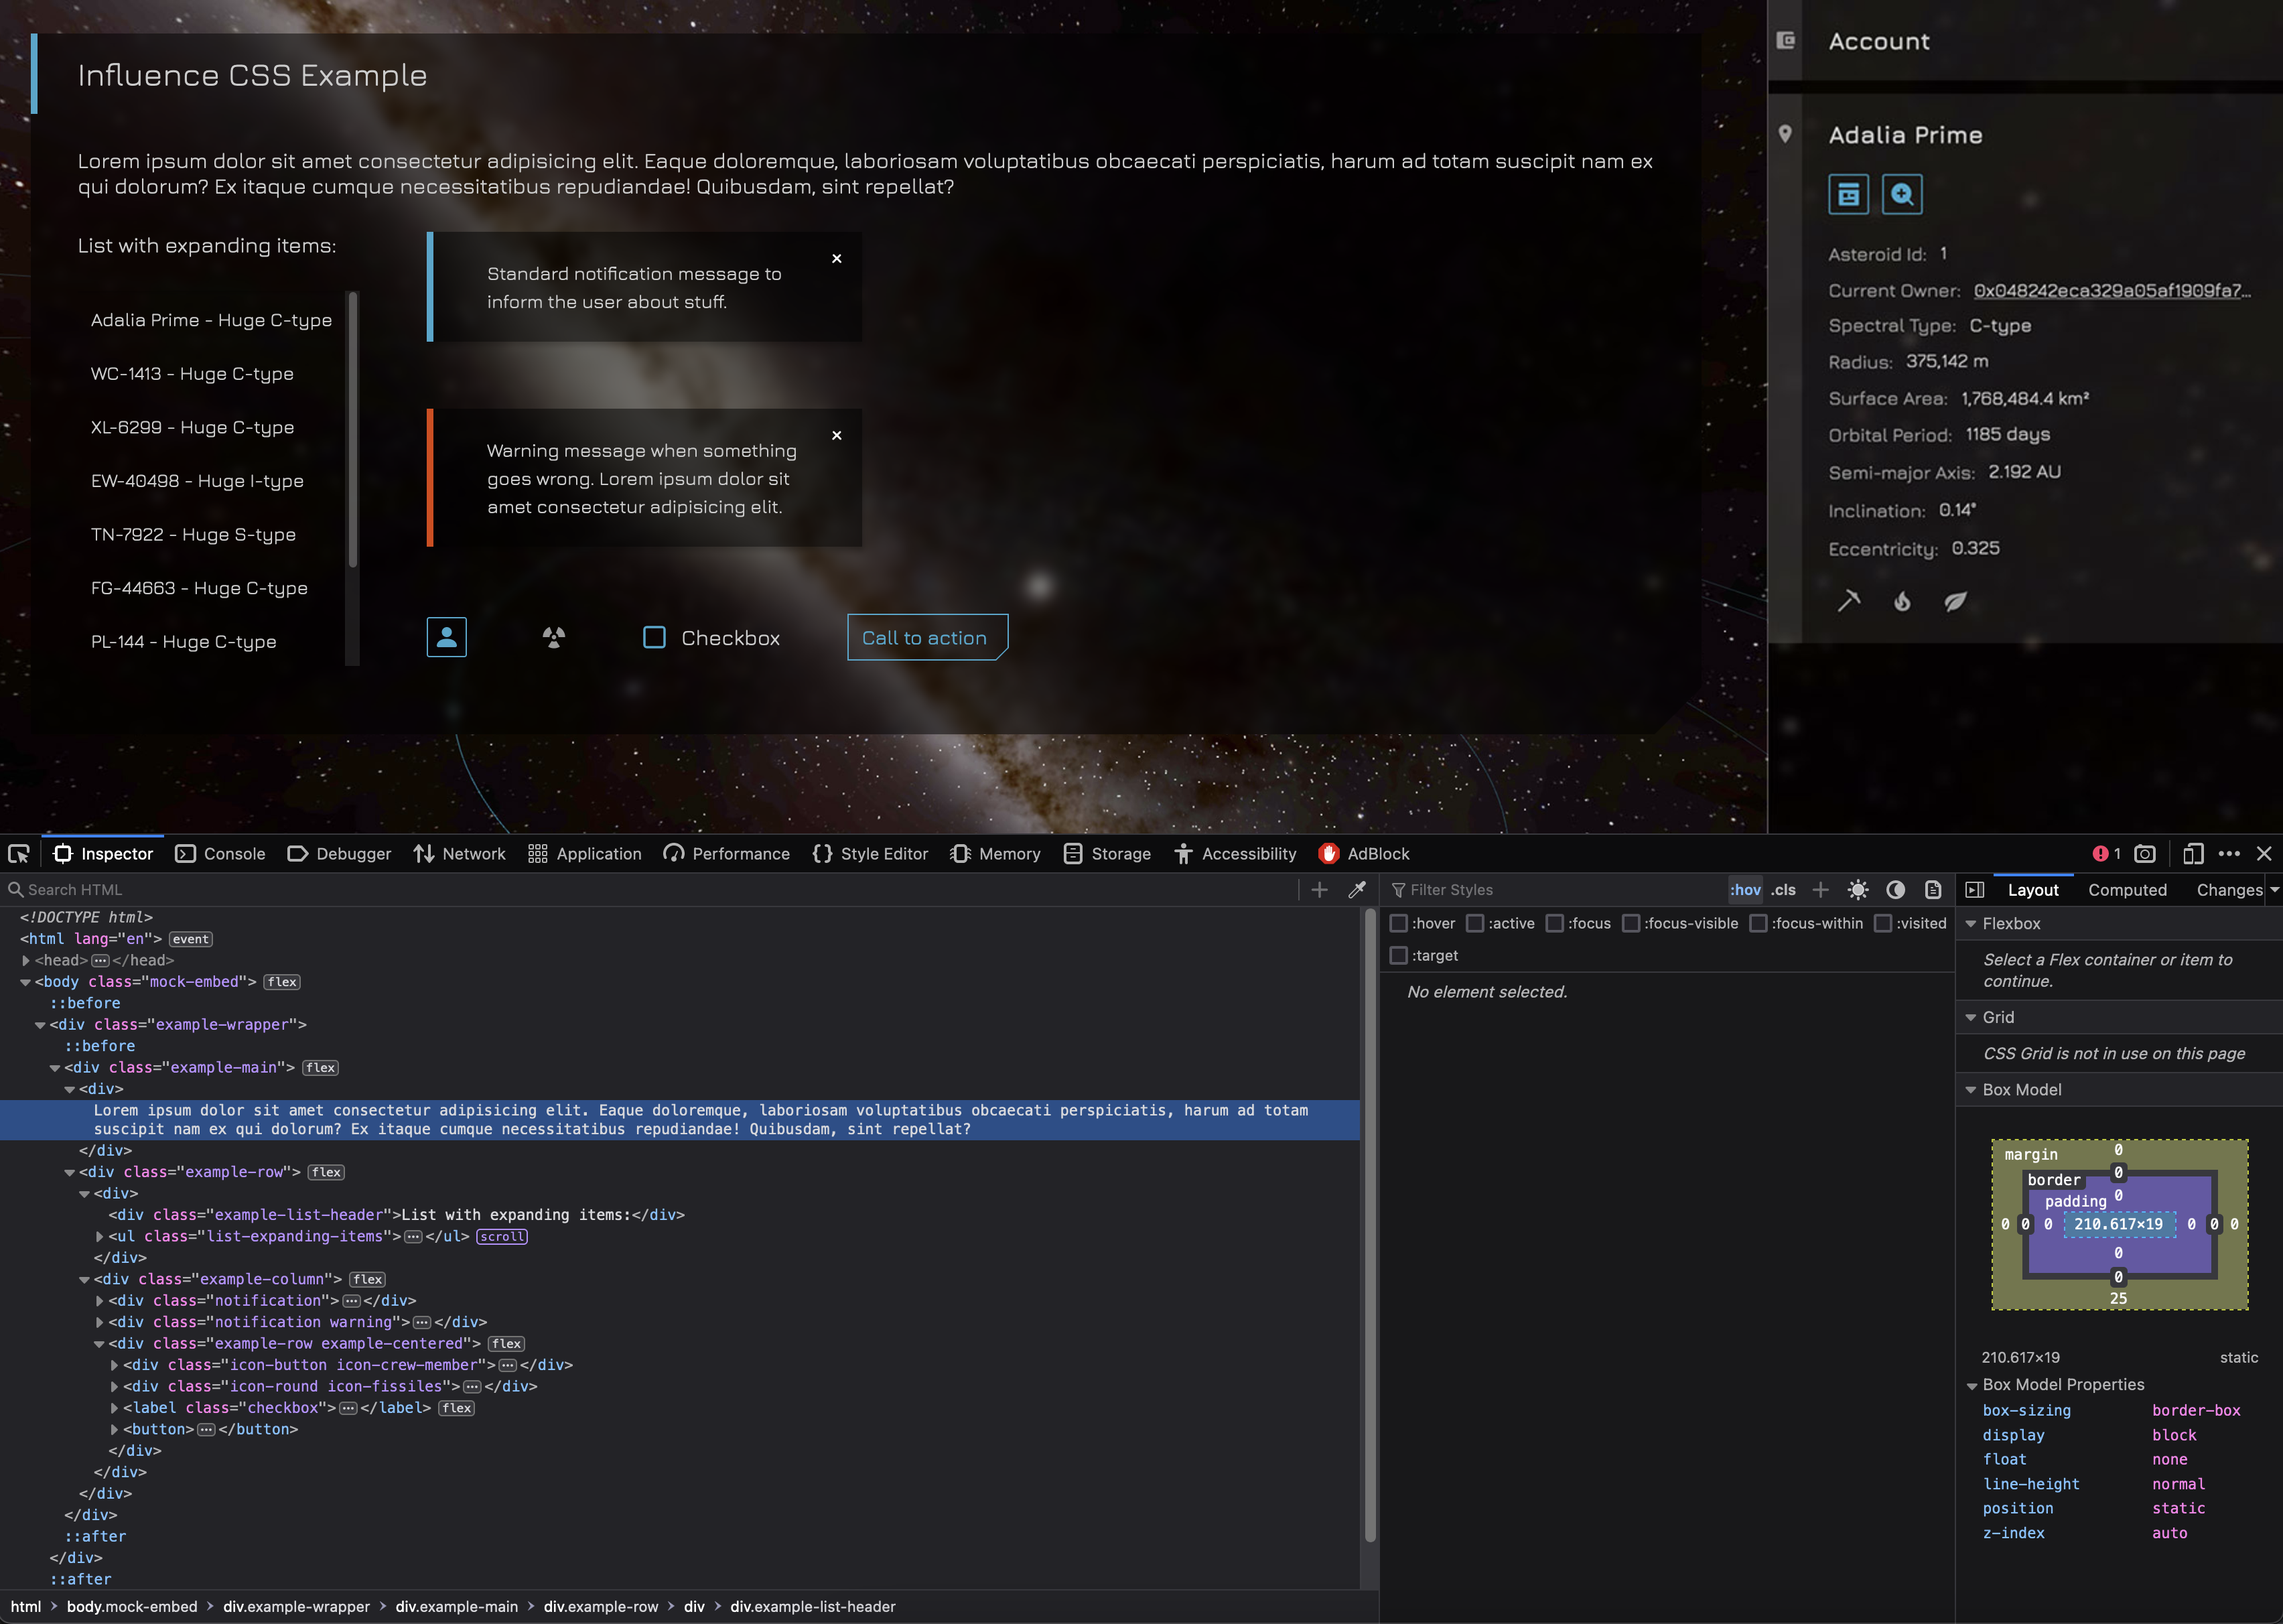
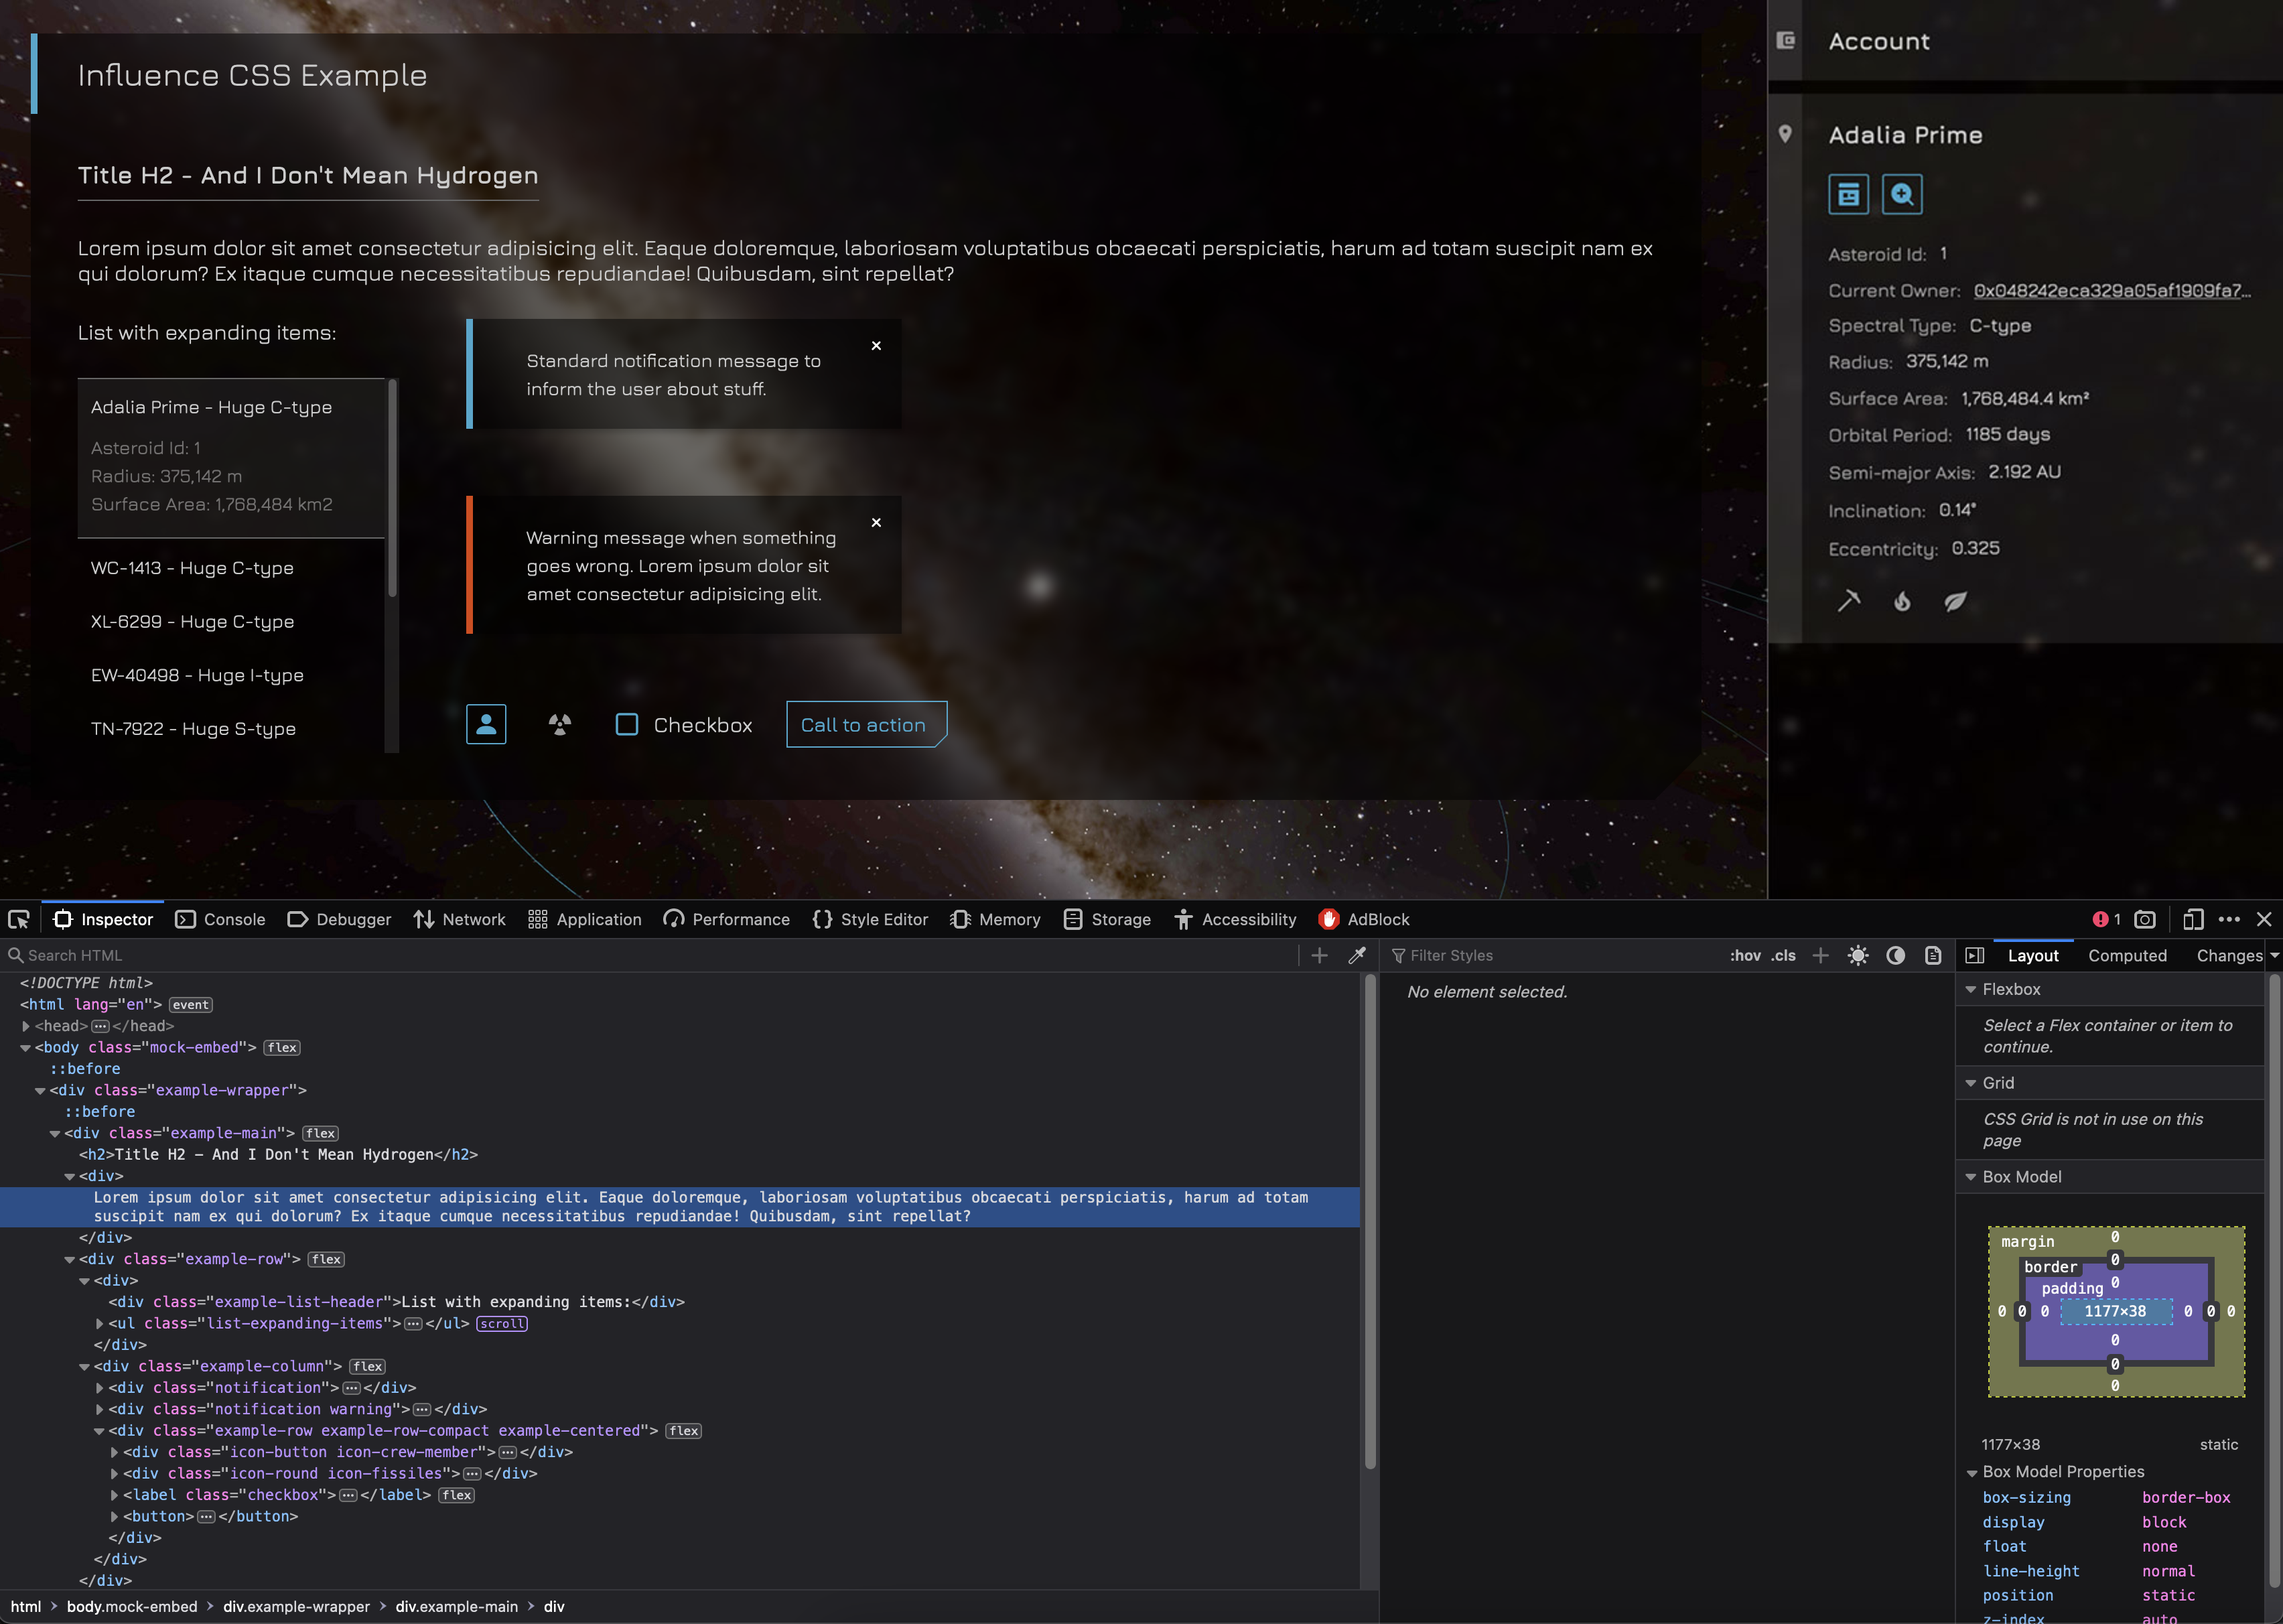
Add styling for h2 titles, update Action Planner

diff --git a/example/index.html b/example/index.html
@@ -11,6 +11,7 @@
 <body class="mock-embed">
     <div class="example-wrapper">
         <div class="example-main">
+            <h2>Title H2 - And I Don't Mean Hydrogen</h2>
             <div>Lorem ipsum dolor sit amet consectetur adipisicing elit. Eaque doloremque, laboriosam voluptatibus obcaecati perspiciatis, harum ad totam suscipit nam ex qui dolorum? Ex itaque cumque necessitatibus repudiandae! Quibusdam, sint repellat?</div>
             <div class="example-row">
                 <div>
@@ -63,7 +64,7 @@
                         <div class="notification-close"></div>
                         <div>Warning message when something goes wrong. Lorem ipsum dolor sit amet consectetur adipisicing elit.</div>
                     </div>
-                    <div class="example-row example-centered">
+                    <div class="example-row example-row-compact example-centered">
                         <div class="icon-button icon-crew-member"></div>
                         <div class="icon-round icon-fissiles"></div>
                         <label class="checkbox"><input type="checkbox"> Checkbox</label>

diff --git a/tool-action-planner/index.html b/tool-action-planner/index.html
@@ -19,9 +19,10 @@
                 <button>Extract</button>
                 <button>Transfer</button>
             </div>
-            <div>
-                <div>
-                    <ul id="queued-actions" class="list-expanding-items">
+            <div id="action-groups">
+                <div id="actions-queued" class="action-group">
+                    <h2>Queued</h2>
+                    <ul class="list-expanding-items">
                         <li class="action ready">
                             <div class="item-title">
                                 <div class="icon-round icon-yield"></div>
@@ -65,6 +66,12 @@
                             <div class="item-expand">From: Warehouse<br>To: Light Transport</div>
                         </li>
                     </ul>
+                </div>
+                <div id="actions-ongoing" class="action-group">
+                    <h2>Ongoing</h2>
+                </div>
+                <div id="actions-done" class="action-group">
+                    <h2>Done</h2>
                 </div>
             </div>
             <!-- TOOL TEMPLATE -- END -->

diff --git a/style/influence-index.css b/style/influence-index.css
@@ -50,6 +50,14 @@ ul {
     padding: 0;
 }
 
+h2 {
+    border-bottom: 1px solid var(--color-gray-dark);
+    font-size: 18px;
+    height: 40px;
+    line-height: 40px;
+    margin: 0;
+}
+
 /* Scroll bar */
 
 ::-webkit-scrollbar {
@@ -175,7 +183,7 @@ input[type='checkbox']:checked {
 
 ul.list-expanding-items {
     --list-item-height: 40px;
-    box-shadow: rgb(0, 0, 0) 0px 5px 7px -8px inset;
+    /* box-shadow: rgb(0, 0, 0) 0px 5px 7px -8px inset; */
     font-size: 14px;
     overflow-y: auto;
     scrollbar-width: thin;
@@ -200,8 +208,9 @@ ul.list-expanding-items li:hover {
 }
 
 ul.list-expanding-items li .item-title {
-    line-height: var(--list-item-height);
-    white-space: nowrap;
+    align-items: center;
+    display: flex;
+    height: var(--list-item-height);
 }
 
 ul.list-expanding-items li .item-expand {

diff --git a/tool-action-planner/example.css b/tool-action-planner/example.css
@@ -79,32 +79,3 @@ body.embed {
 body {
     background-color: black;
 }
-
-/* Example styles */
-
-.example-main {
-    align-items: flex-start;
-    display: flex;
-    flex-direction: column;
-    gap: 25px;
-}
-
-.example-row {
-    align-items: flex-start;
-    display: flex;
-    gap: 50px;
-}
-
-.example-row.example-centered {
-    align-items: center;
-}
-
-.example-column {
-    display: flex;
-    flex-direction: column;
-    gap: 50px;
-}
-
-.example-list-header {
-    margin-bottom: 25px;
-}

diff --git a/tool-action-planner/style.css b/tool-action-planner/style.css
@@ -12,12 +12,21 @@ ul.list-expanding-items {
     /* max-height: calc(7 * var(--list-item-height)); */
 }
 
+ul.list-expanding-items li:first-child:hover {
+    border-top: 1px solid transparent;
+}
+
 ul.list-expanding-items li .item-title {
-    align-items: center;
-    display: flex;
     gap: 10px;
 }
 
 ul.list-expanding-items li .item-expand {
     opacity: 0.5;
+}
+
+#action-groups {
+    display: grid;
+    grid-template-columns: repeat(3, 1fr);
+    gap: 25px;
+    margin-top: 25px;
 }

diff --git a/example/example.css b/example/example.css
@@ -95,6 +95,10 @@ body {
     gap: 50px;
 }
 
+.example-row.example-row-compact {
+    gap: 25px;
+}
+
 .example-row.example-centered {
     align-items: center;
 }
@@ -111,6 +115,7 @@ body {
 
 ul.list-expanding-items {
     max-height: calc(7 * var(--list-item-height));
+    width: 240px;
 }
 
 ul.list-expanding-items li .item-expand {
